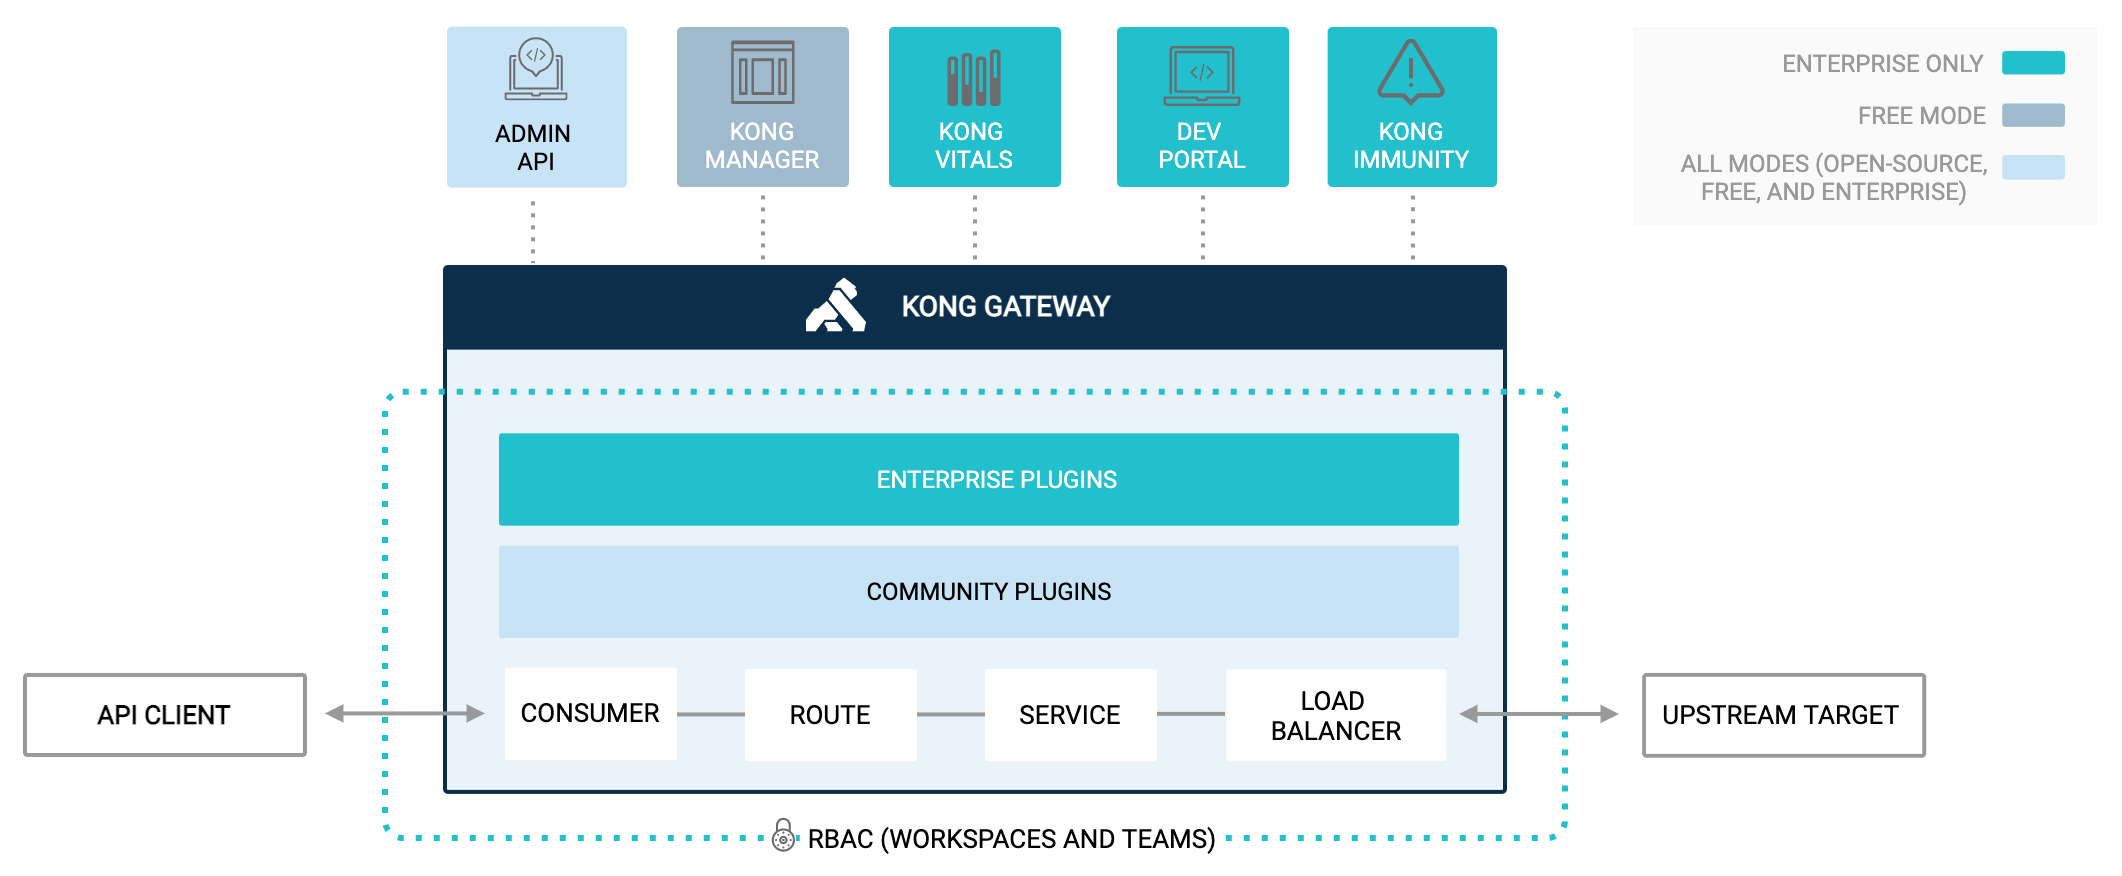
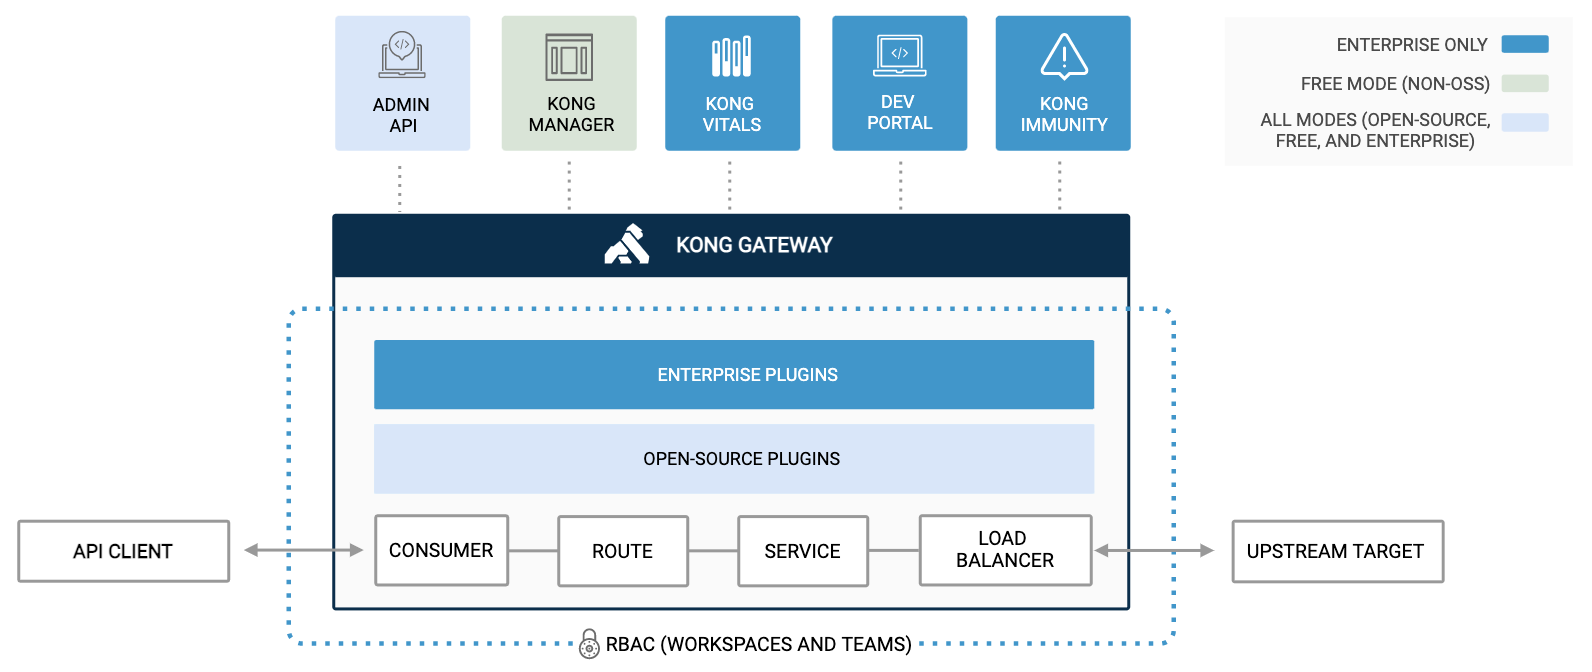
improve gateway landing page

diff --git a/app/gateway/2.6.x/index.md b/app/gateway/2.6.x/index.md
@@ -26,11 +26,18 @@ entire organization
 is distributed along with [OpenResty](https://openresty.org/), which is a bundle
 of modules that extend the [lua-nginx-module](https://github.com/openresty/lua-nginx-module).
 
-This sets the foundations for a modular architecture, where Lua scripts
-(plugins) can be enabled and executed at runtime. At its core,
+This sets the foundations for a modular architecture, where
+plugins can be enabled and executed at runtime. At its core,
 {{site.base_gateway}} implements database abstraction, routing, and plugin
 management. Plugins can live in separate code bases and be injected anywhere
 into the request lifecycle, all with a few lines of code.
+
+Kong provides many [plugins](#kong-gateway-plugins) for you to use in your
+Gateway deployments. You can also create your own custom plugins. For more
+information, see the
+[plugin development guide](/gateway/{{page.kong_version}}/plugin-development),
+the [PDK reference](/gateway/{{page.kong_version}}/pdk), and the guide on
+[creating plugins with other languages](/gateway/{{page.kong_version}}/reference/external-plugins).
 
 ## Packages and modes
 
@@ -41,11 +48,15 @@ functionality and open-source plugins. You can manage the open-source Gateway
 with Kong's [Admin API](#kong-admin-api) or with [declarative configuration](#deck).
 
 **Kong Gateway** (available in
-[Free or Enterprise modes](https://konghq.com/pricing)): Kong's API gateway
+[Free, Plus, or Enterprise modes](https://konghq.com/pricing)): Kong's API gateway
 with added functionality.
-* In **Free mode** (<span class="badge free"></span>),
+* In **Free mode** <span class="badge free"></span>,
   this package adds [Kong Manager](#kong-manager) to the basic open-source functionality.
-* With an **Enterprise** subscription (<span class="badge enterprise"></span>),
+* In **Plus mode** <span class="badge plus"></span>, you have access to more
+{{site.base_gateway}} features, but only through {{site.konnect_saas}}.
+See the [{{site.konnect_saas}} documentation](/konnect/) and the
+**Plus**-labelled plugins on the [Plugin Hub](/hub/) for more information.
+* With an **Enterprise** subscription <span class="badge enterprise"></span>,
   it also includes:
     * [Dev Portal](#kong-dev-portal)
     * [Vitals](#kong-vitals)
@@ -71,7 +82,10 @@ configuration, and forwarded to upstream services._
 
 ### Kong Admin API
 
-[Kong Admin API](/gateway/{{page.kong_version}}/admin-api) provides a RESTful interface for administration and configuration of Services, Routes, Plugins, and Consumers. All of the tasks you perform in the Kong Manager can be automated using the Kong Admin API.
+[Kong Admin API](/gateway/{{page.kong_version}}/admin-api) provides a RESTful
+interface for administration and configuration of Services, Routes, Plugins, and
+Consumers. All of the tasks you can perform against the Gateway can be automated
+using the Kong Admin API.
 
 ### Kong Manager
 {:.badge .free}
@@ -104,11 +118,11 @@ object-level health using intuitive, customizable dashboards
 
 [Kong Vitals](/gateway/{{page.kong_version}}/vitals) provides useful metrics about the health and performance of your {{site.base_gateway}} nodes, as well as metrics about the usage of your proxied APIs. You can visually monitor vital signs and pinpoint anomalies in real-time, and use visual API analytics to see exactly how your APIs and Gateway are performing and access key statistics. Kong Vitals is part of the Kong Manager UI.
 
-### Kubernetes Ingress Controller
+### Kubernetes
 
-[Kong for Kubernetes Enterprise](/kubernetes-ingress-controller/) (K4K8S) is a Kubernetes Ingress Controller. A Kubernetes Ingress Controller is a proxy that exposes Kubernetes services from applications (for example, Deployments, ReplicaSets) running on a Kubernetes cluster to client applications running outside of the cluster. The intent of an Ingress Controller is to provide a single point of control for all incoming traffic into the Kubernetes cluster.
+{{site.base_gateway}} can run natively on Kubernetes with its custom [ingress controller](/kubernetes-ingress-controller/), Helm chart, and Operator. A Kubernetes ingress controller is a proxy that exposes Kubernetes services from applications (for example, Deployments, ReplicaSets) running on a Kubernetes cluster to client applications running outside of the cluster. The intent of an ingress controller is to provide a single point of control for all incoming traffic into the Kubernetes cluster.
 
-### Kong plugins
+### Kong Gateway plugins
 
 [{{site.base_gateway}} plugins](/hub/) provide advanced functionality to better manage your API and microservices. With turnkey capabilities to meet the most challenging use cases, {{site.base_gateway}} plugins ensure maximum control and minimizes unnecessary overhead. Enable features like authentication, rate-limiting, and transformations by enabling {{site.base_gateway}} plugins through Kong Manager or the Admin API.
 
@@ -143,17 +157,18 @@ instructions, and explores Kong's many available tools for managing the gateway.
 
 ### Try in Konnect
 
-{{site.base_gateway}} is also bundled with {{site.konnect_product_name}}.
-There are a few ways to test out the gateway's Plus or Enterprise features:
+[{{site.konnect_product_name}}](/konnect/) can manage {{site.base_gateway}}
+instances. With this setup, Kong hosts the control plane and you host your
+own data planes.
+
+There are a few ways to test out the Gateway's Plus or Enterprise features:
 
 * Sign up for a [free trial of {{site.konnect_product_name}} Plus](https://konnect.konghq.com/register).
 * Try out {{site.base_gateway}} on Kubernetes using a live tutorial at
 [https://www.konglabs.io/kubernetes/](https://www.konglabs.io/kubernetes/).
-* If you are interested in evaluating Enterprise features locally, the
-Kong sales team manages evaluation licenses as part of a formal sales process.
-The best way to get started with the sales process is to
-[request a demo](https://konghq.com/get-started/#request-demo) and indicate
-your interest.
+* If you are interested in evaluating Enterprise features locally,
+[request a demo](https://konghq.com/get-started/#request-demo) and a Kong
+representative will reach out with details to get you started.
 
 ## Support policy
 Kong primarily follows a [semantic versioning](https://semver.org/) (SemVer)
